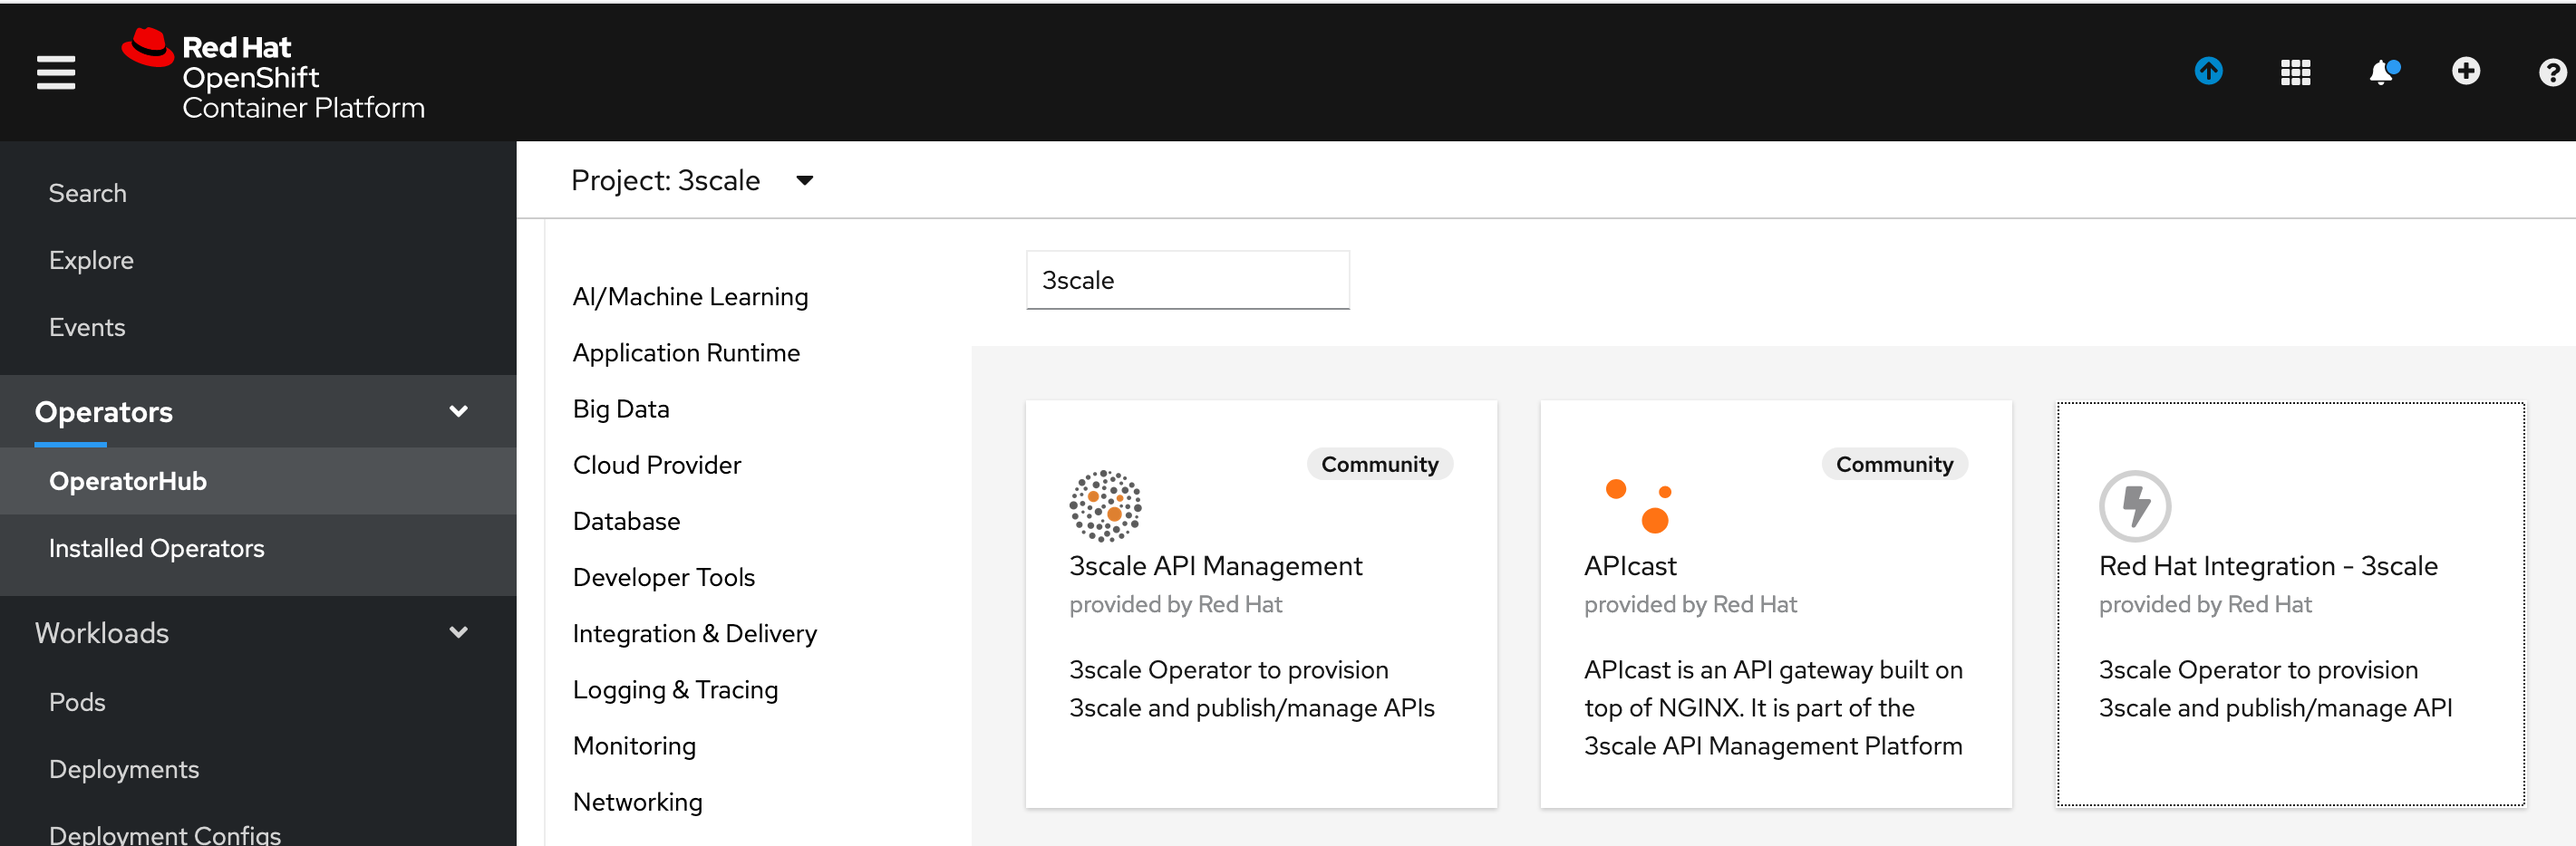
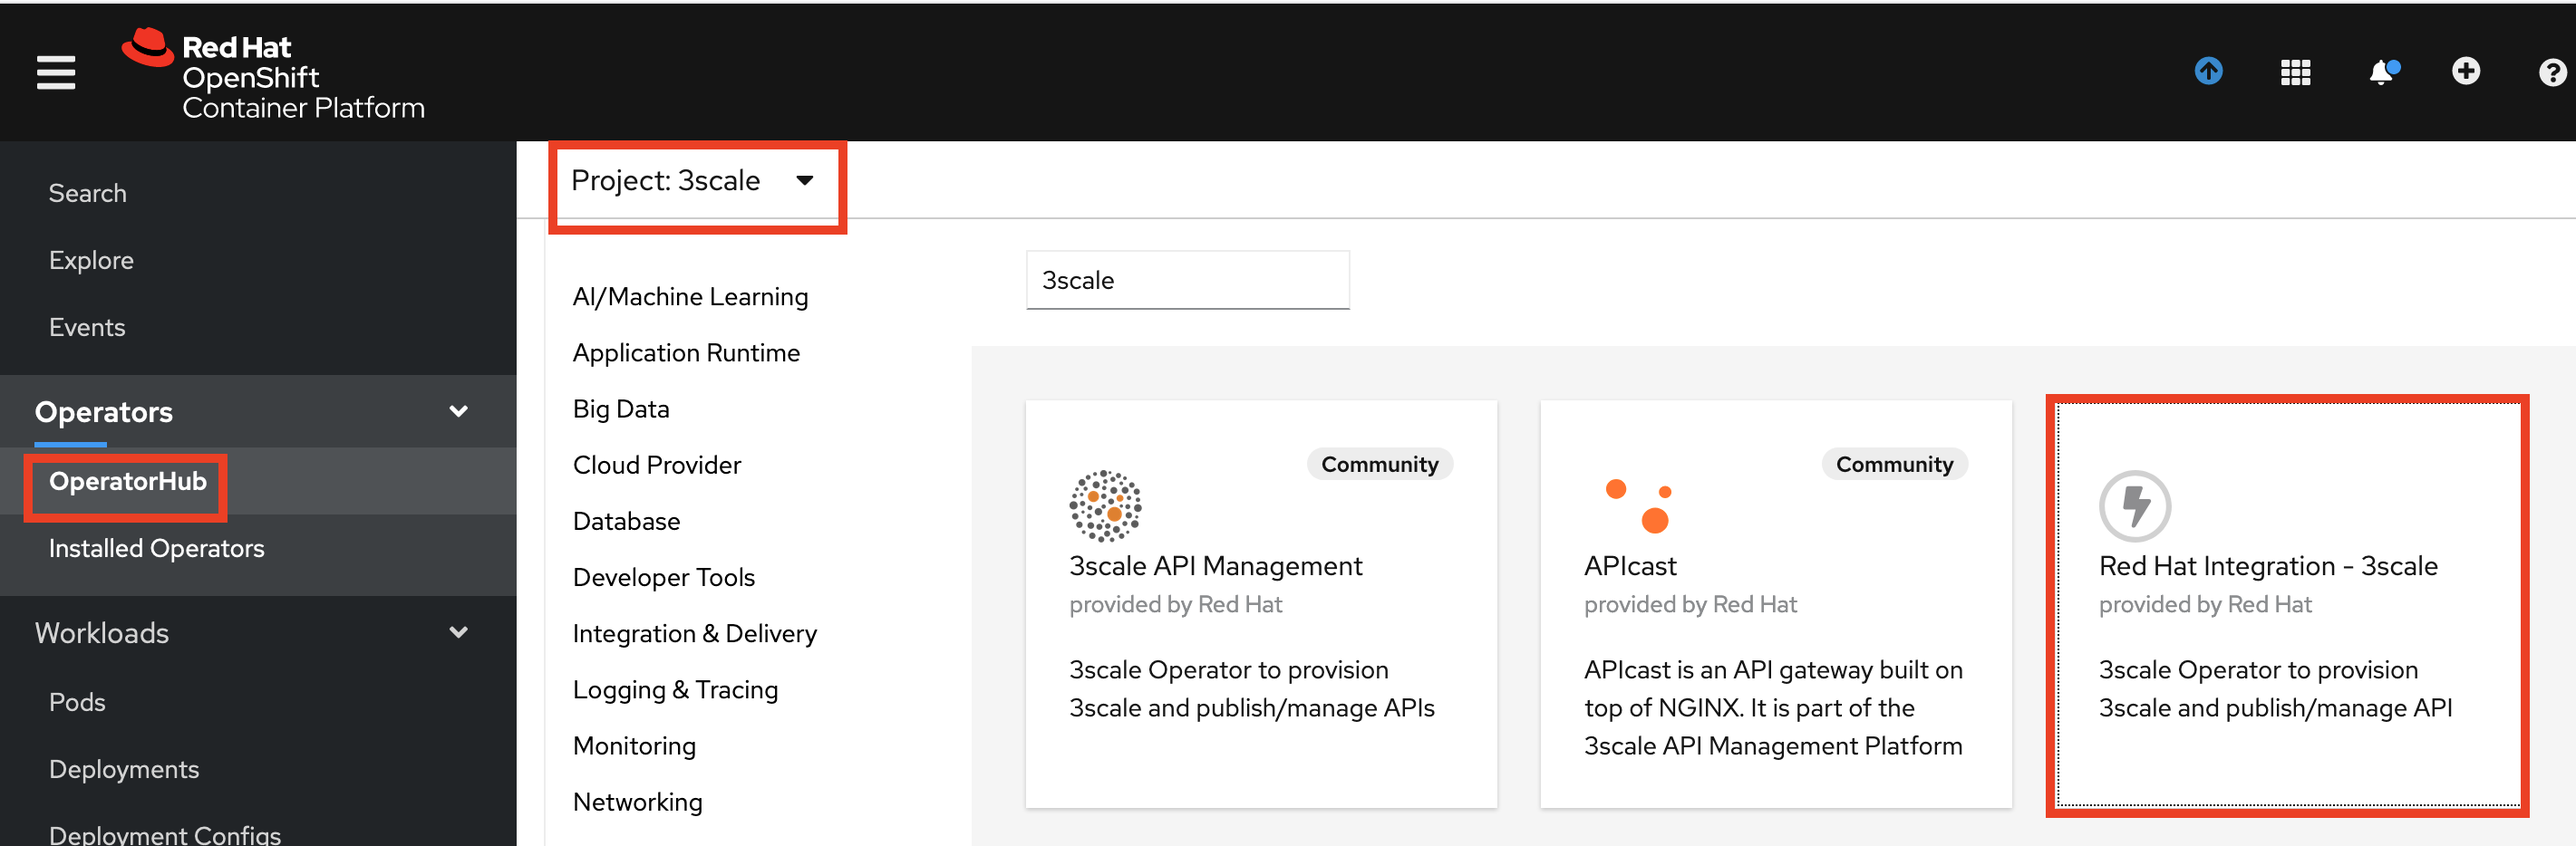
Committing files

diff --git a/README.md b/README.md
@@ -55,7 +55,7 @@ oc create secret docker-registry threescale-registry-auth \
 
 On the OpenShift web console, select the 3scale project. Navigate to _Operators->Operator Hub_. Search for _3scale_ and select the _Red Hat Integration - 3scale_ operator
 
-![](https://github.com/tnscorcoran/springboot-quarkus-serverless/blob/master/images/01-springboot-startup.png)
+![](https://github.com/tnscorcoran/3scale-soap-2-rest/blob/master/_images/1-3scale-operator.png)
 
 
 
